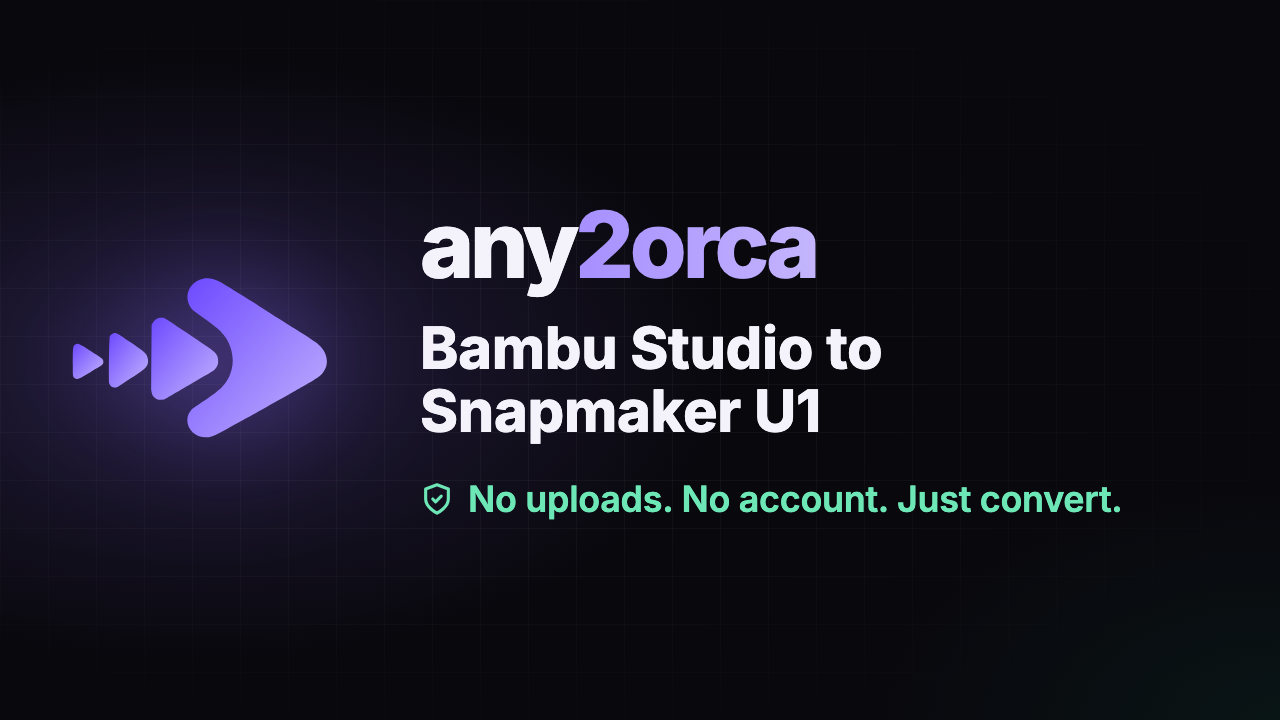
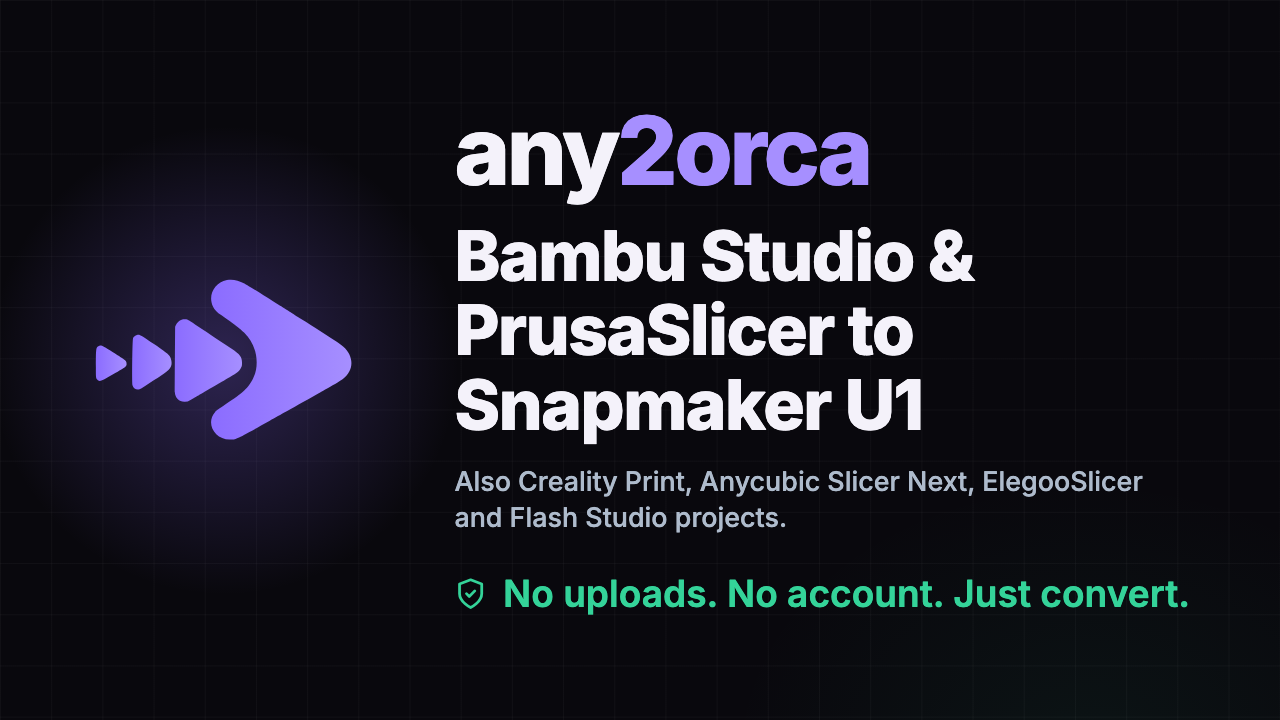
README cover: Bambu Studio & PrusaSlicer to Snapmaker U1, with the other four slicers, rendered from a template (scripts/cover.html, scripts/render-covers.mjs) so the words can be changed and the image rendered again

diff --git a/scripts/cover.html b/scripts/cover.html
@@ -1,0 +1,92 @@
+<!doctype html>
+<!-- SPDX-License-Identifier: MIT -->
+<!--
+  The cover image: the README's (1280x720) and the web app's social preview (1200x630), rendered from this page
+  by scripts/render-covers.mjs at each size. Edit the words here, then render both again.
+-->
+<html lang="en">
+<head>
+<meta charset="utf-8" />
+<title>any2orca cover</title>
+<style>
+  /* The web app's own Inter, so the image matches the site. */
+  @font-face {
+    font-family: "Inter";
+    font-weight: 300 800;
+    src: url("../apps/web/public/fonts/inter-latin.woff2") format("woff2");
+  }
+  :root {
+    --bg: #09080d;
+    --grid: rgba(244, 242, 250, 0.035);
+    --text: #f4f2fa;
+    --muted: #aebbcc;
+    --accent: #8b6cff;
+    --accent-strong: #a68fff;
+    --glow: rgba(139, 108, 255, 0.28);
+    --success: #34d399;
+    /* One unit that scales with the image: 1200x630 and 1280x720 lay out the same. */
+    --u: min(1vw, 1.9vh);
+  }
+  html, body { margin: 0; width: 100vw; height: 100vh; overflow: hidden; }
+  body {
+    background:
+      radial-gradient(ellipse 40% 55% at 85% 105%, rgba(52, 211, 153, 0.06), transparent 70%),
+      linear-gradient(var(--grid) 1px, transparent 1px) 0 0 / calc(var(--u) * 4) calc(var(--u) * 4),
+      linear-gradient(90deg, var(--grid) 1px, transparent 1px) 0 0 / calc(var(--u) * 4) calc(var(--u) * 4),
+      var(--bg);
+    font-family: "Inter", sans-serif;
+    color: var(--text);
+    display: flex;
+    align-items: center;
+    justify-content: center;
+    gap: calc(var(--u) * 7);
+  }
+  .mark {
+    position: relative;
+    width: calc(var(--u) * 22);
+    flex: none;
+  }
+  .mark::before {
+    content: "";
+    position: absolute;
+    inset: -45%;
+    background: radial-gradient(circle, var(--glow), transparent 62%);
+  }
+  .mark svg { position: relative; display: block; width: 100%; height: auto; }
+  .words { display: flex; flex-direction: column; gap: calc(var(--u) * 1.6); max-width: calc(var(--u) * 58); }
+  .name { font-size: calc(var(--u) * 7.4); font-weight: 800; letter-spacing: -0.035em; line-height: 1; }
+  .name span { color: var(--accent-strong); }
+  h1 { margin: 0; font-size: calc(var(--u) * 5.4); font-weight: 800; letter-spacing: -0.02em; line-height: 1.08; }
+  .also { font-size: calc(var(--u) * 2.1); font-weight: 500; color: var(--muted); line-height: 1.35; }
+  .promise { display: flex; align-items: center; gap: calc(var(--u) * 1.2); margin-top: calc(var(--u) * 1.2); font-size: calc(var(--u) * 2.9); font-weight: 600; color: var(--success); }
+  .promise svg { width: calc(var(--u) * 2.6); height: auto; flex: none; }
+</style>
+</head>
+<body>
+  <div class="mark" aria-hidden="true">
+    <svg viewBox="164 163 943 943">
+      <defs>
+        <linearGradient id="fill" x1="0" y1="0" x2="1" y2="0">
+          <stop offset="0" stop-color="#8b6cff" />
+          <stop offset="1" stop-color="#a68fff" />
+        </linearGradient>
+      </defs>
+      <g transform="translate(0,1254) scale(0.1,-0.1)" fill="url(#fill)">
+        <path d="M6460 8864 c-427 -92 -648 -517 -464 -889 51 -104 125 -181 283 -292 582 -411 730 -531 875 -711 322 -399 396 -973 181 -1405 -156 -313 -317 -464 -932 -873 -197 -132 -307 -211 -337 -245 -338 -375 -11 -953 524 -926 189 9 189 9 1305 632 165 92 399 223 520 290 178 99 652 366 1075 605 36 20 175 99 310 175 307 173 456 263 543 327 374 277 382 757 17 1084 -93 83 -294 218 -820 549 -69 43 -204 129 -300 191 -96 61 -222 141 -280 176 -58 36 -202 127 -320 203 -118 76 -260 166 -315 200 -55 34 -343 215 -640 400 -297 186 -586 364 -643 396 -199 110 -407 151 -582 113z" />
+        <path d="M4942 7535 c-77 -24 -150 -91 -191 -175 l-26 -55 -8 -1060 c-4 -583 -5 -1092 -3 -1132 15 -207 145 -330 339 -321 l93 4 125 71 c129 74 232 134 804 468 187 109 401 233 475 276 276 159 324 199 381 314 32 66 34 75 34 175 0 194 -62 276 -360 476 -1109 744 -1427 954 -1461 963 -52 15 -149 13 -202 -4z" />
+        <path d="M3446 7029 c-56 -13 -105 -54 -129 -108 -26 -58 -41 -1512 -17 -1587 29 -88 90 -134 180 -134 64 0 65 1 328 174 119 78 312 202 427 276 326 209 398 310 365 512 -27 168 -65 204 -570 551 -503 345 -491 338 -584 316z" />
+        <path d="M2155 6651 c-80 -49 -83 -76 -84 -701 -1 -385 0 -392 68 -437 79 -53 89 -49 524 205 432 252 437 256 437 348 0 96 -3 98 -470 393 -358 226 -396 241 -475 192z" />
+      </g>
+    </svg>
+  </div>
+  <div class="words">
+    <div class="name">any<span>2orca</span></div>
+    <h1>Bambu Studio &amp; PrusaSlicer to Snapmaker&nbsp;U1</h1>
+    <div class="also">Also Creality&nbsp;Print, Anycubic&nbsp;Slicer&nbsp;Next, ElegooSlicer and Flash&nbsp;Studio projects.</div>
+    <div class="promise">
+      <svg viewBox="0 0 24 24" fill="none" stroke="currentColor" stroke-width="2" stroke-linecap="round" stroke-linejoin="round"><path d="M12 22s8-4 8-10V5l-8-3-8 3v7c0 6 8 10 8 10z" /><path d="m9 12 2 2 4-4" /></svg>
+      No uploads. No account. Just convert.
+    </div>
+  </div>
+</body>
+</html>

diff --git a/README.md b/README.md
@@ -1,4 +1,4 @@
-<img width="1280" height="720" alt="any2orca: Bambu Studio to Snapmaker U1. No uploads. No account. Just convert." src="docs/assets/readme-cover.png" />
+<img width="1280" height="720" alt="any2orca: Bambu Studio &amp; PrusaSlicer to Snapmaker U1. Also Creality Print, Anycubic Slicer Next, ElegooSlicer and Flash Studio projects. No uploads. No account. Just convert." src="docs/assets/readme-cover.png" />
 
 
 Convert Bambu Studio, Creality Print, Anycubic Slicer Next, ElegooSlicer, Flash Studio and PrusaSlicer `.3mf` projects for the Snapmaker U1 (Snapmaker Orca), **entirely on your own machine.** Your file is never uploaded: the conversion runs in your browser, your terminal or your own code.
